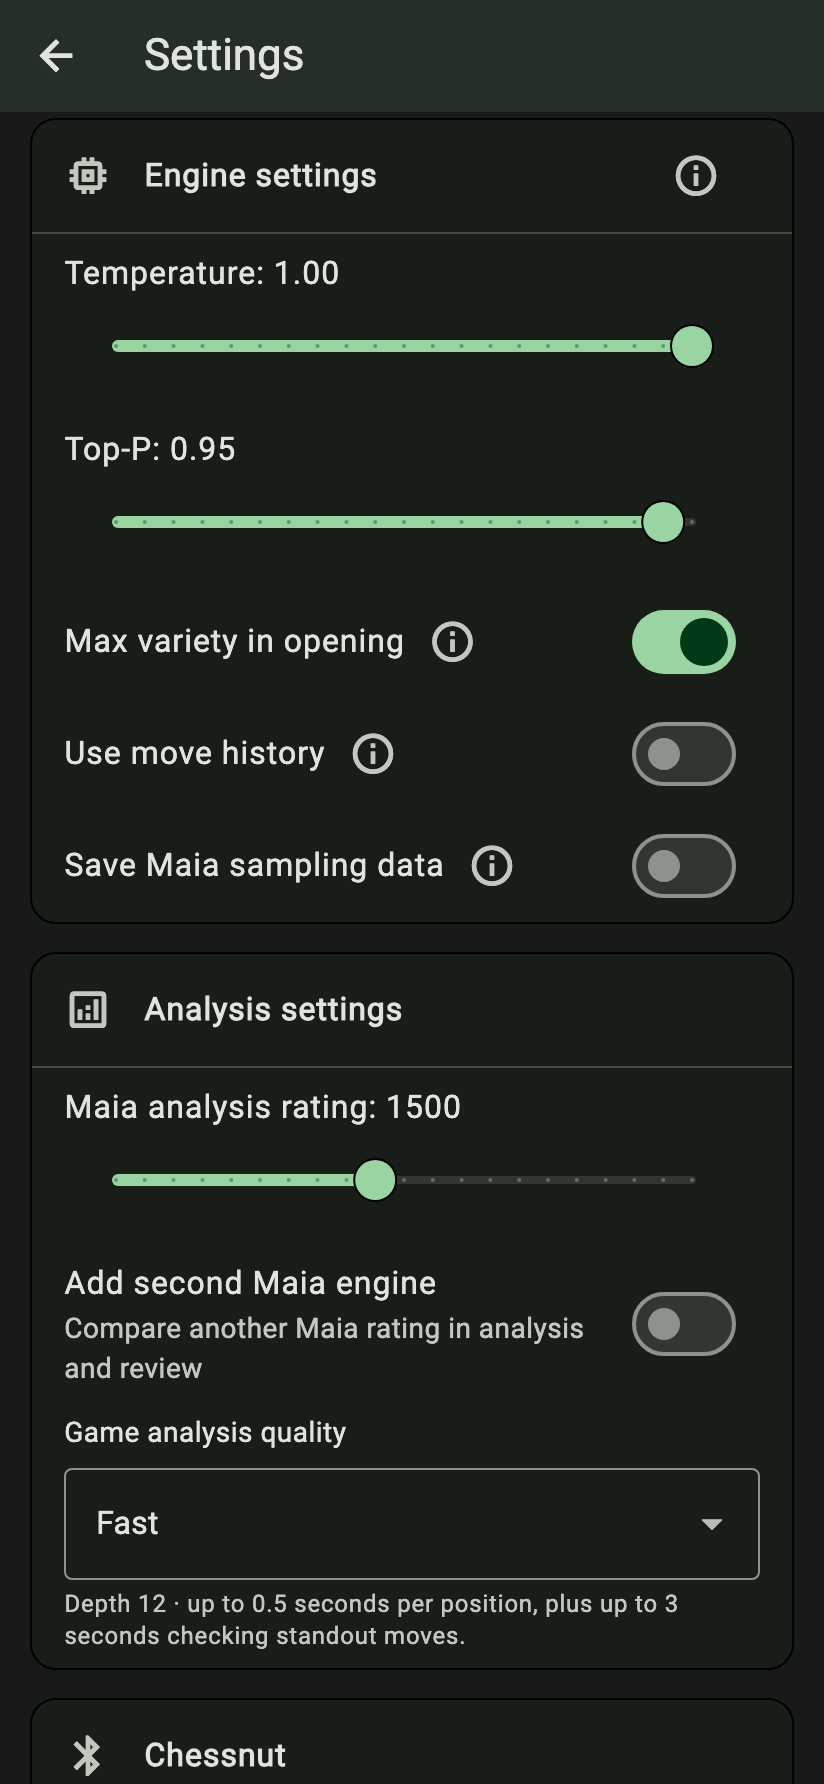
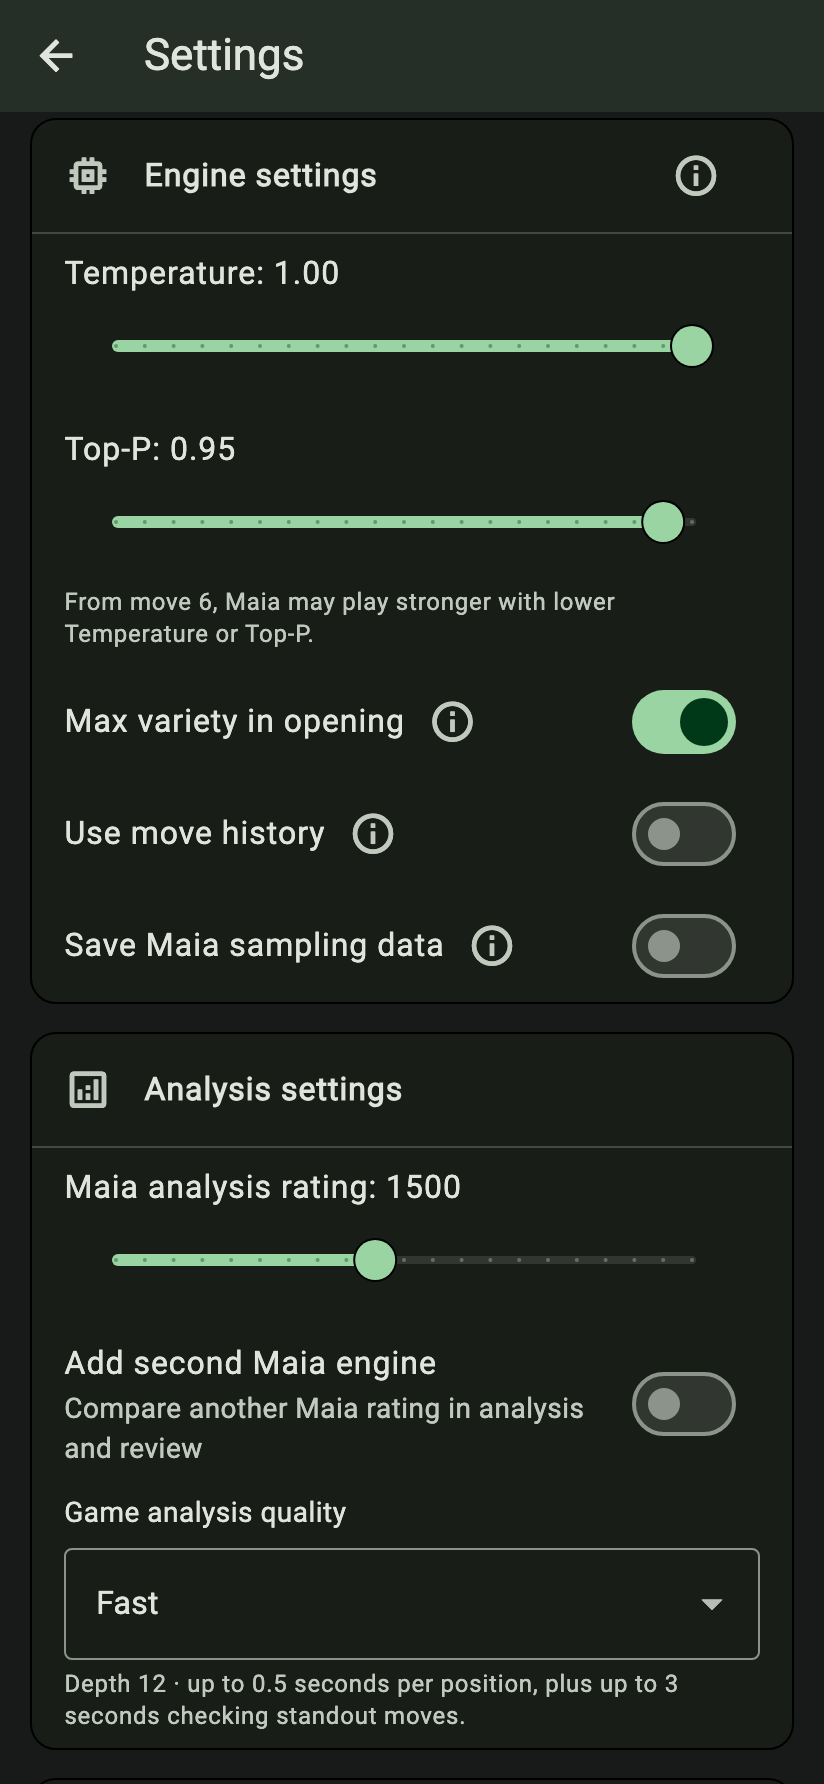
Explain stronger play with lower sampling settings after the opening

diff --git a/test/review_page_test.dart b/test/review_page_test.dart
@@ -572,7 +572,10 @@ void main() {
     expect(find.text('Simple explanation'), findsOneWidget);
     expect(find.text('Technical explanation'), findsOneWidget);
     expect(find.textContaining('some 300 Elo stronger'), findsOneWidget);
-    expect(find.textContaining('some very low-probability blunders'), findsOneWidget);
+    expect(
+      find.textContaining('some very low-probability blunders'),
+      findsOneWidget,
+    );
     await tester.tap(find.byKey(const ValueKey('sampling-help-technical')));
     await tester.pumpAndSettle();
     expect(find.textContaining('exp((logit'), findsOneWidget);
@@ -609,8 +612,10 @@ void main() {
     expect(find.text('Temperature: 1.00'), findsOneWidget);
     expect(find.text('Top-P: 0.95'), findsOneWidget);
     expect(
-      find.byKey(const ValueKey('sampling-recommendation-warning')),
-      findsNothing,
+      find.text(
+        'From move 6, Maia may play stronger with lower Temperature or Top-P.',
+      ),
+      findsOneWidget,
     );
   });
 
@@ -708,8 +713,10 @@ void main() {
     expect(find.text('Temperature: 1.00'), findsOneWidget);
     expect(find.text('Top-P: 0.95'), findsOneWidget);
     expect(
-      find.byKey(const ValueKey('sampling-recommendation-warning')),
-      findsNothing,
+      find.text(
+        'From move 6, Maia may play stronger with lower Temperature or Top-P.',
+      ),
+      findsOneWidget,
     );
     expect(preferences.getDouble('temperatureV2'), 1.0);
     expect(preferences.getDouble('topPV2'), 0.95);

diff --git a/test/sampling_defaults_test.dart b/test/sampling_defaults_test.dart
@@ -15,14 +15,17 @@ void main() {
       final limited = s.samplingRecommendationWarning;
       final deterministic = s.samplingArgmaxNotice;
       final afterOpening = s.samplingArgmaxAfterOpeningNotice;
+      final lowerAfterOpening = s.samplingLowerAfterOpeningNotice;
       final cases = <(double, double, bool, List<String>)>[
-        (1, 0.95, true, []),
+        (1, 0.95, true, [lowerAfterOpening]),
         (1, 0.95, false, [limited]),
         (1, 0.99, false, [limited]),
-        (1, 0.99, true, []),
+        (1, 0.99, true, [lowerAfterOpening]),
         (0.95, 0.95, false, [limited]),
         (1, 0.90, false, [limited]),
-        (1, 0.90, true, []),
+        (1, 0.90, true, [lowerAfterOpening]),
+        (0.5, 1, true, [lowerAfterOpening]),
+        (0.5, 0.95, true, [lowerAfterOpening]),
         (1, 1, false, [full]),
         (1, 1, true, [full]),
         (0, 0.95, false, [deterministic, limited]),
@@ -69,7 +72,10 @@ void main() {
     await tester.tap(second);
     await tester.pumpAndSettle();
     expect(find.text('Second Maia analysis rating: 2600'), findsOneWidget);
-    expect(key('sampling-recommendation-warning'), findsNothing);
+    expect(
+      tester.widget<Text>(key('sampling-recommendation-warning')).data,
+      'From move 6, Maia may play stronger with lower Temperature or Top-P.',
+    );
     expect(tester.takeException(), isNull);
     await tester.pumpWidget(const SizedBox.shrink());
     await tester.pumpAndSettle();

diff --git a/lib/l10n/app_localizations_hi.dart b/lib/l10n/app_localizations_hi.dart
@@ -1460,4 +1460,8 @@ class AppLocalizationsHi extends AppLocalizations {
   @override
   String get topPNotUsedHelp =>
       'टेम्परेचर 0 पर Maia हमेशा सबसे अधिक संभावना वाली चाल चुनती है, इसलिए Top-P का कोई प्रभाव नहीं होता। आपका Top-P मान सुरक्षित रहता है और टेम्परेचर बढ़ाने पर फिर उपलब्ध होता है। ओपनिंग विविधता चालू हो तो दोनों पक्षों की पहली पाँच चालें अभी भी 1.0 / 1.0 का उपयोग करती हैं।';
+
+  @override
+  String get samplingLowerAfterOpeningNotice =>
+      'टेम्परेचर या Top-P कम रखने पर Maia छठी चाल से अधिक मज़बूती से खेल सकती है।';
 }

diff --git a/lib/l10n/app_localizations_ru.dart b/lib/l10n/app_localizations_ru.dart
@@ -1482,4 +1482,8 @@ class AppLocalizationsRu extends AppLocalizations {
   @override
   String get topPNotUsedHelp =>
       'При температуре 0 Maia всегда выбирает один из наиболее вероятных ходов, поэтому Top-P не влияет на выбор. Его значение сохраняется и снова станет доступно при повышении температуры. Если разнообразие в дебюте включено, первые пять ходов каждой стороны по-прежнему используют 1.0 / 1.0.';
+
+  @override
+  String get samplingLowerAfterOpeningNotice =>
+      'С 6-го хода Maia может играть сильнее при более низкой температуре или Top-P.';
 }

diff --git a/lib/l10n/app_localizations.dart b/lib/l10n/app_localizations.dart
@@ -2511,6 +2511,12 @@ abstract class AppLocalizations {
   /// In en, this message translates to:
   /// **'At Temperature 0, Maia always chooses a most likely move, so Top-P has no effect. Your Top-P value is kept and becomes available again when you raise Temperature. If Max variety in opening is on, the first five moves by each side still use 1.0 / 1.0.'**
   String get topPNotUsedHelp;
+
+  /// Neutral strength notice when opening variety is on and either positive sampling setting is below 1. Applies from full move 6. Zero settings use the separate argmax notice with Good luck. Maia-specific, no Lichess equivalent.
+  ///
+  /// In en, this message translates to:
+  /// **'From move 6, Maia may play stronger with lower Temperature or Top-P.'**
+  String get samplingLowerAfterOpeningNotice;
 }
 
 class _AppLocalizationsDelegate

diff --git a/lib/l10n/app_localizations_es.dart b/lib/l10n/app_localizations_es.dart
@@ -1463,4 +1463,8 @@ class AppLocalizationsEs extends AppLocalizations {
   @override
   String get topPNotUsedHelp =>
       'Con temperatura 0, Maia siempre elige una de las jugadas más probables, así que Top-P no tiene efecto. Su valor se conserva y vuelve a estar disponible al subir la temperatura. Si la máxima variedad en la apertura está activada, las primeras cinco jugadas de cada bando siguen usando 1.0 / 1.0.';
+
+  @override
+  String get samplingLowerAfterOpeningNotice =>
+      'A partir de la sexta jugada, Maia puede jugar más fuerte con una temperatura o un Top-P más bajos.';
 }

diff --git a/lib/l10n/app_localizations_fr.dart b/lib/l10n/app_localizations_fr.dart
@@ -1462,4 +1462,8 @@ class AppLocalizationsFr extends AppLocalizations {
   @override
   String get topPNotUsedHelp =>
       'À température 0, Maia choisit toujours un coup de probabilité maximale : Top-P est donc sans effet. Sa valeur est conservée et redevient disponible quand vous augmentez la température. Si la variété en ouverture est activée, les cinq premiers coups de chaque camp utilisent toujours 1.0 / 1.0.';
+
+  @override
+  String get samplingLowerAfterOpeningNotice =>
+      'À partir du 6e coup, Maia peut jouer plus fort avec une température ou un Top-P plus bas.';
 }

diff --git a/lib/l10n/app_localizations_ja.dart b/lib/l10n/app_localizations_ja.dart
@@ -1360,4 +1360,8 @@ class AppLocalizationsJa extends AppLocalizations {
   @override
   String get topPNotUsedHelp =>
       '温度が0の場合、Maiaは最も確率の高い手を必ず選ぶため、Top-Pは影響しません。Top-Pの値は保存され、温度を上げると再び使えます。序盤の多様性がオンなら、双方の最初の5手には引き続き1.0 / 1.0を使います。';
+
+  @override
+  String get samplingLowerAfterOpeningNotice =>
+      '温度またはTop-Pを低くすると、6手目からMaiaがより強くなる可能性があります。';
 }

diff --git a/lib/l10n/app_localizations_ko.dart b/lib/l10n/app_localizations_ko.dart
@@ -1362,4 +1362,8 @@ class AppLocalizationsKo extends AppLocalizations {
   @override
   String get topPNotUsedHelp =>
       '온도가 0이면 Maia는 항상 가장 확률 높은 수를 골라 Top-P가 영향을 주지 않습니다. Top-P 값은 저장되며 온도를 높이면 다시 사용할 수 있습니다. 오프닝 다양성을 켠 경우 양쪽의 처음 다섯 수에는 여전히 1.0 / 1.0을 사용합니다.';
+
+  @override
+  String get samplingLowerAfterOpeningNotice =>
+      '온도나 Top-P를 낮추면 6수째부터 Maia가 더 강하게 둘 수 있습니다.';
 }

diff --git a/lib/l10n/app_localizations_pt.dart b/lib/l10n/app_localizations_pt.dart
@@ -1471,4 +1471,8 @@ class AppLocalizationsPt extends AppLocalizations {
   @override
   String get topPNotUsedHelp =>
       'Com temperatura 0, Maia sempre escolhe um dos lances mais prováveis, então Top-P não tem efeito. Seu valor é mantido e volta a ficar disponível ao aumentar a temperatura. Se a variedade na abertura estiver ativada, os primeiros cinco lances de cada lado continuam usando 1.0 / 1.0.';
+
+  @override
+  String get samplingLowerAfterOpeningNotice =>
+      'A partir do 6º lance, Maia pode jogar mais forte com uma temperatura ou um Top-P mais baixos.';
 }

diff --git a/lib/l10n/app_localizations_de.dart b/lib/l10n/app_localizations_de.dart
@@ -1466,4 +1466,8 @@ class AppLocalizationsDe extends AppLocalizations {
   @override
   String get topPNotUsedHelp =>
       'Bei Temperatur 0 wählt Maia immer einen wahrscheinlichsten Zug. Top-P hat dann keinen Einfluss. Dein Top-P-Wert bleibt gespeichert und wird wieder nutzbar, wenn du die Temperatur erhöhst. Mit Eröffnungsvielfalt gilt für die ersten fünf Züge beider Seiten weiterhin 1.0 / 1.0.';
+
+  @override
+  String get samplingLowerAfterOpeningNotice =>
+      'Ab dem 6. Zug kann Maia mit niedrigerer Temperatur oder niedrigerem Top-P stärker spielen.';
 }

diff --git a/lib/l10n/app_localizations_en.dart b/lib/l10n/app_localizations_en.dart
@@ -1443,4 +1443,8 @@ class AppLocalizationsEn extends AppLocalizations {
   @override
   String get topPNotUsedHelp =>
       'At Temperature 0, Maia always chooses a most likely move, so Top-P has no effect. Your Top-P value is kept and becomes available again when you raise Temperature. If Max variety in opening is on, the first five moves by each side still use 1.0 / 1.0.';
+
+  @override
+  String get samplingLowerAfterOpeningNotice =>
+      'From move 6, Maia may play stronger with lower Temperature or Top-P.';
 }
